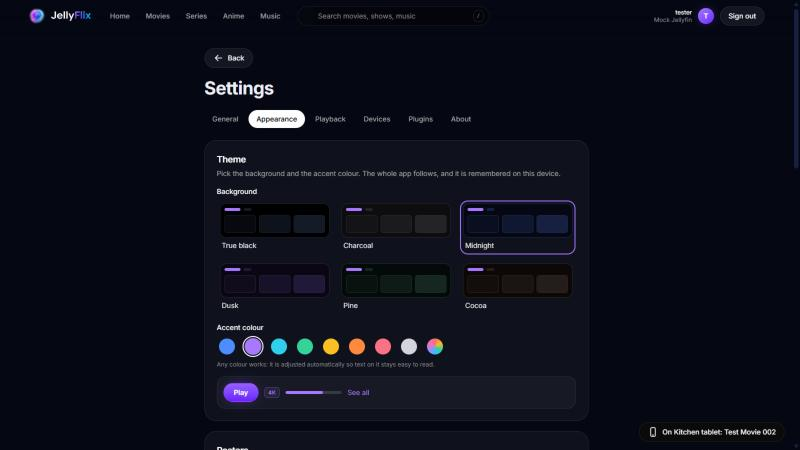
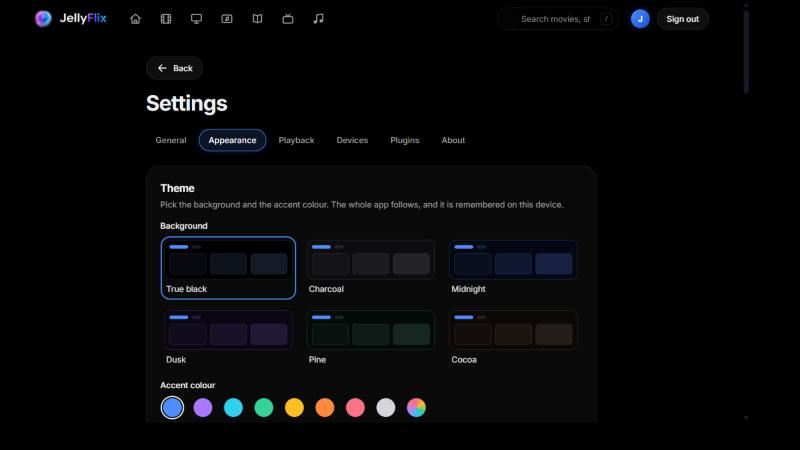
Screenshots for 1.1.0: books and the PDF reader, Live TV, the top menu and the Layout cards
The Live TV, Layout, Top menu and Theme pictures come from the author's server with no account or server name on screen. The Books page and the PDF reader were taken against the mock server with covers and a document made for the purpose, so no one else's work is shown.

diff --git a/README.md b/README.md
@@ -221,6 +221,10 @@ Settings → **Appearance**, in both apps. The choices stay on the device; the w
 <td width="50%"><img src="docs/screenshots/web-appearance.jpg" alt="Web: Settings, Appearance"></td>
 <td width="50%"><img src="docs/screenshots/tv-appearance.jpg" alt="TV: Settings, Appearance"></td>
 </tr>
+<tr>
+<td><img src="docs/screenshots/web-layout.jpg" alt="Web: Settings, Appearance, Layout chosen from drawn cards, and the menu buttons"></td>
+<td><img src="docs/screenshots/tv-menu.jpg" alt="TV: choosing the order of the top menu"></td>
+</tr>
 </table>
 
 ## 🛠 For server administrators
@@ -269,6 +273,14 @@ A fast, installable web app that talks directly from your browser to your Jellyf
 <tr>
 <td><img src="docs/screenshots/web-series.jpg" alt="Web: a series page with its episodes"></td>
 <td><img src="docs/screenshots/web-music.jpg" alt="Web: the music page with albums to jump back into"></td>
+</tr>
+<tr>
+<td><img src="docs/screenshots/web-books.jpg" alt="Web: the Books tab with covers, the kind of each book and its year"></td>
+<td><img src="docs/screenshots/web-reader.jpg" alt="Web: the PDF reader on dark pages, with zoom, page colours and a jump to any page"></td>
+</tr>
+<tr>
+<td><img src="docs/screenshots/web-livetv.jpg" alt="Web: Live TV with the channels, their quality and notes as small tags"></td>
+<td><img src="docs/screenshots/web-top-menu.jpg" alt="Web: Settings, Appearance, Top menu: show, hide and reorder the buttons at the top"></td>
 </tr>
 </table>
 
